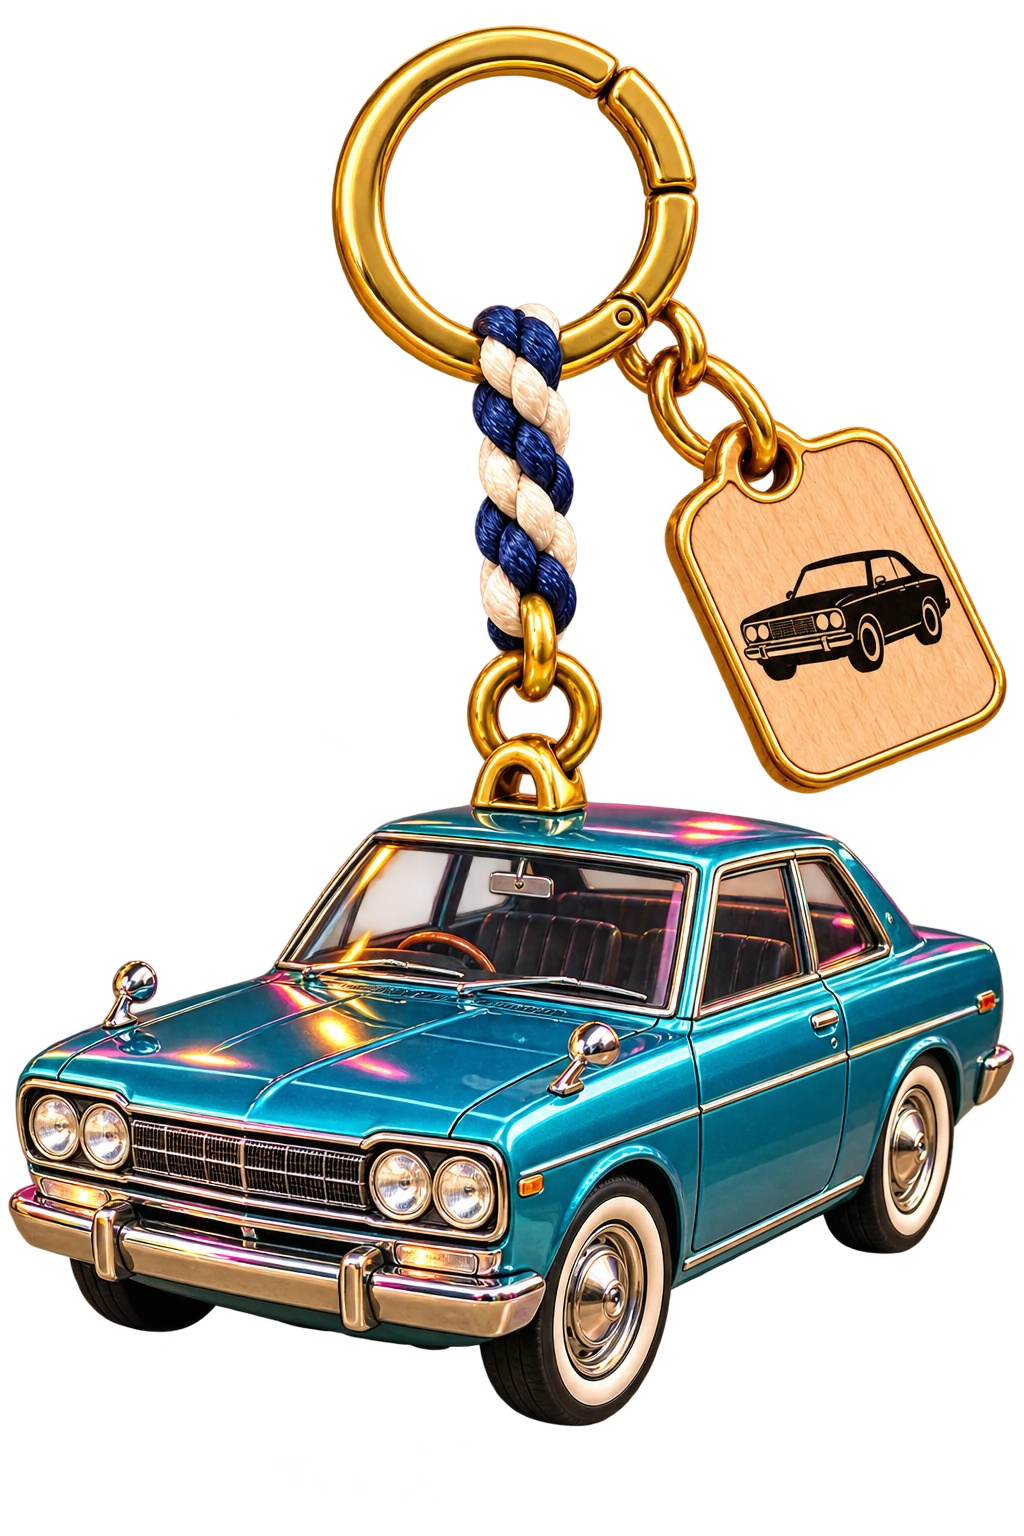
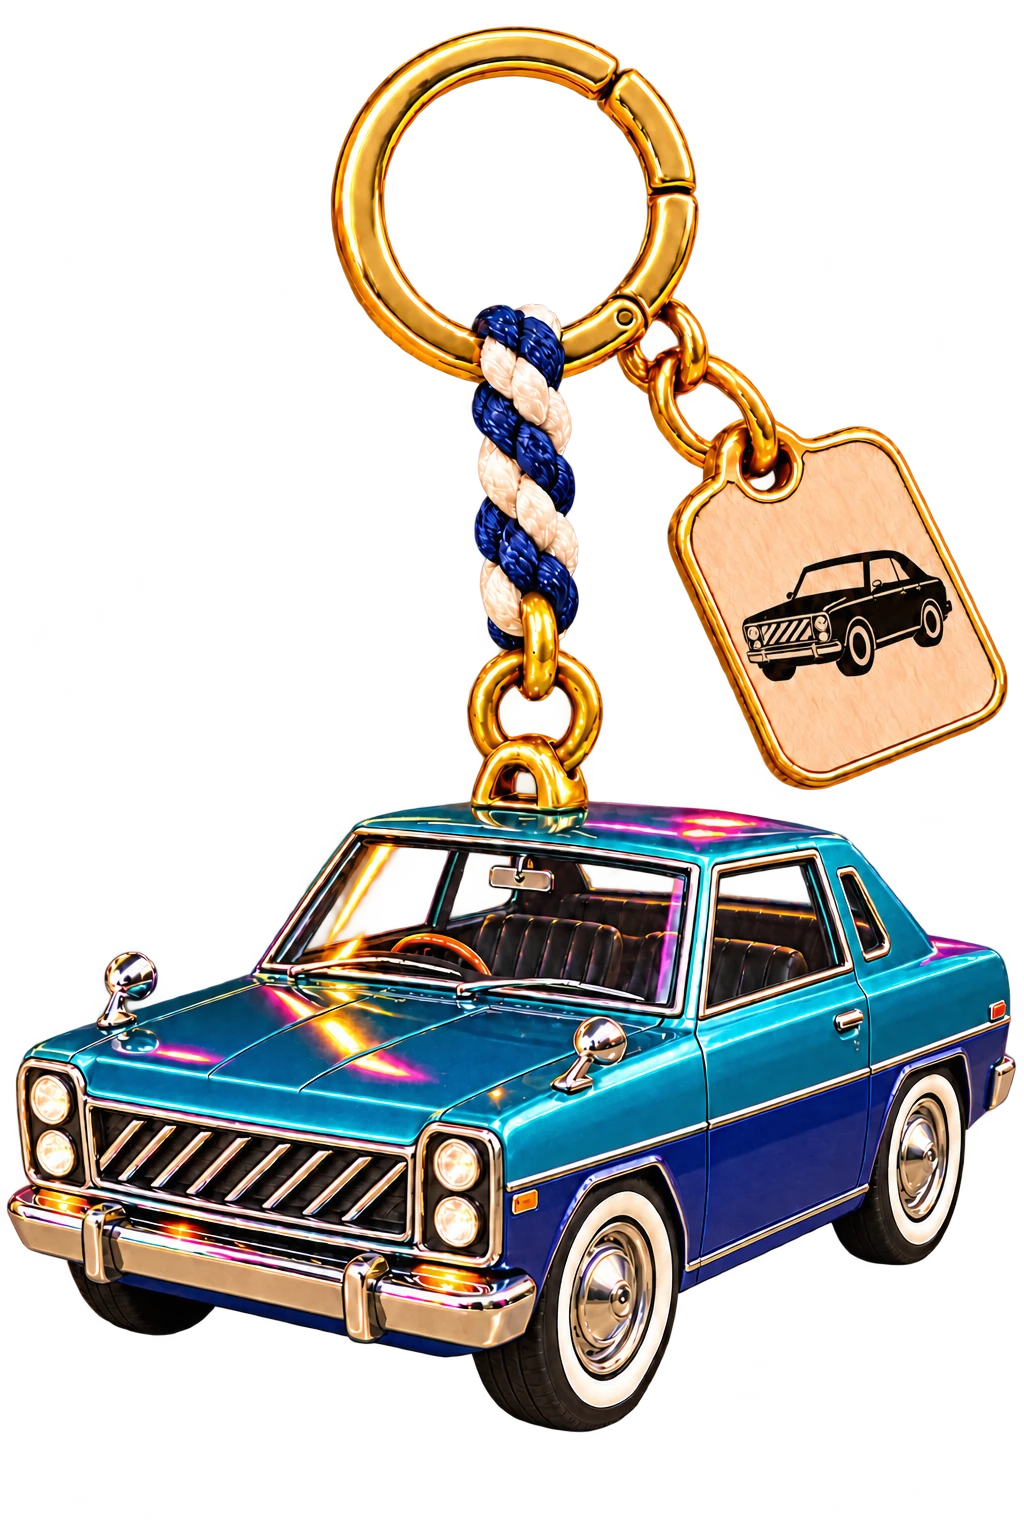
assets: batch1 e-showa-car era-new artwork

Changed region(s): [[0.0, 0.0, 1.0, 0.9375]]

diff --git a/assets/event-toki/MANIFEST.md b/assets/event-toki/MANIFEST.md
@@ -247,3 +247,18 @@ Generation prompt (normalized): Portrait 8:9 rounded rectangular mobile-event il
 Final edit prompt: Preserve composition, objects, colors, character identities, road and rounded indigo/gold frame with transparent outside corners. Change only the three central friends into three-quarter rear/side walking poses toward the upper-right pastel shrine, with heads and feet pointing in the travel direction, no looking back at the camera; preserve their large size and side-by-side row. No text, logos or extra embellishments.
 
 Validation: RGBA WebP; alpha range 0-255. Four corner alpha values of the main asset are 0,0,1,0 (the value 1 is a near-transparent antialiasing sample); preview corners are all 0. Visually reviewed the 375px derivative for character count, direction, period-object readability and no lettering. Only the new key visual, its two previews and this manifest are included in its commit; pre-existing changes are retained.
+
+
+## Batch 1: Showa E5/F5 and B map (2026-10-09)
+
+User approved initial sample direction and requested original vehicle geometry and distinct Showa typography. Showa cards now share flat angular sign-painter lettering, navy/gold borders, one round metal もび badge. Car uses vertical unequal round-headlamp pairs, diagonal grille, broad sail pillar and chamfered wheelarches; wood-tag pictogram follows the revised front. Generated via built-in image_gen, WebP quality90 method6. Car transparency cleanup regenerated with image_gen; final generated alpha retained without mask modification. All 16 legacy E/F paths remain byte-identical. New showa-record E/F are temporarily in staging-15 to avoid overwriting the colliding legacy IDs before all15 are complete. Batch2 and batch3 await user approval.
+
+### Batch1 e-showa-car
+
+- File: keychains/keychain-showa-car-v1-transparent.webp
+- 1024×1536; 313334 bytes; alpha: (0, 254)
+- Preview derivatives: previews/batch1-before-e-showa-car.webp, previews/batch1-car-e-compare.webp
+- Generated source: C:\Users\User\.codex\generated_images\01a11af9-b286-7401-9677-f00660143a49\exec-732bd92f-473c-4157-9c37-86d5c1e26bb6.png
+- Generation prompt: 1024x1536 portrait. Pristine newly released Showa-era object, vivid candy colors, mirror chrome, sodium amber and magenta neon reflections, high contrast dramatic three-quarter composition. Absolutely no age, rust, wear, scratches, dirt, fading, grain, sepia, muted nostalgia. Fictional original design, no identifiable real model, brand, emblem, logos, labels, numbers or product names, people, gang imagery or dangerous driving. Premium realistic 3D miniature collectible keychain, truly transparent background and holes. Whole object visible with generous margin. Polished gold split ring top, linked short gold chain, indigo-white braided hanging cord, little fresh pale WOOD rectangular side tag with gold rim and ONE black car pictogram, NO text. Main miniature fills lower 60 percent. Reference shows hardware arrangement ONLY; discard all reference subject/weathering. Original imaginary long-hood boxy TWO-DOOR coupe. Rebuild body shape: four round headlights arranged as TWO VERTICAL PAIRS with SMALL UPPER lamp and LARGER LOWER lamp in angular chamfered chrome pods, flanking a recessed grille of SIX WIDE DIAGONAL chrome slats (not horizontal bars or mesh). Roof has a narrow trapezoid rear side window and thick slanted rear pillar, long shallow hexagonal front side window. Smooth slab sides with angular squared wheelarches flush to body, NO bulging sporty fenders, NO famous sedan shoulder crease. Straight flat low hood, separate geometric diamond hood ornament NOT brand emblem, thick single chrome bumper, whitewall wide tires. Candy teal upper body and deep indigo lower body two-tone, fresh brilliant shine. This must be visibly DIFFERENT from reference car silhouette and front end.
+- Targeted edit prompt: Precise edit of this keychain. Preserve polished new candy teal/indigo paint, FOUR vertically arranged round headlights in unequal size pairs, diagonal chrome grille, whitewall wheels, hardware, cord, overall angle, canvas1024x1536 and true alpha. Change THREE small but important original vehicle design details: (1) rear side glass must become a NARROW tall pentagonal window set in a broad solid teal sail pillar, half the current glass width. Front door glass long with sharply slanted back edge, distinct from current familiar sports sedan. (2) Wheel openings use STRAIGHT upper edge and CHAMFERED corners, hexagonal arch shape, with broad FLAT body sides rather than curved flared fenders. (3) On wood tag, redraw black car pictogram to match revised original car with VERTICALLY STACKED headlamps and DIAGONAL grille, angular window and flat arch. Absolutely no text or letters, no emblem or recognizable real car body line. Only these precise shape adjustments, preserve everything else, no wear, no added decorations.
+- Targeted edit prompt: BACKGROUND REMOVAL ONLY. Cut out this finished keychain with proper FULLY TRANSPARENT alpha background. Remove the entire smoky gold/black/gray/pink backdrop and all diffuse glow. Also fully clear the hole inside the top gold ring and gaps between cord, side tag and car. Keep ONLY physical keychain, metal, cord, wooden tag and car with its current revised original geometry. Preserve exact body/windows/headlights/grille/pictogram/colors/materials/lighting/composition, no redraw of subject. Entire background must alpha0, main solid object alpha255 with antialiased edges, NO visible fog, NO dark patches, NO cloudy halo. Portrait1024x1536 transparent PNG output. Do not bake checkerboard into image.
